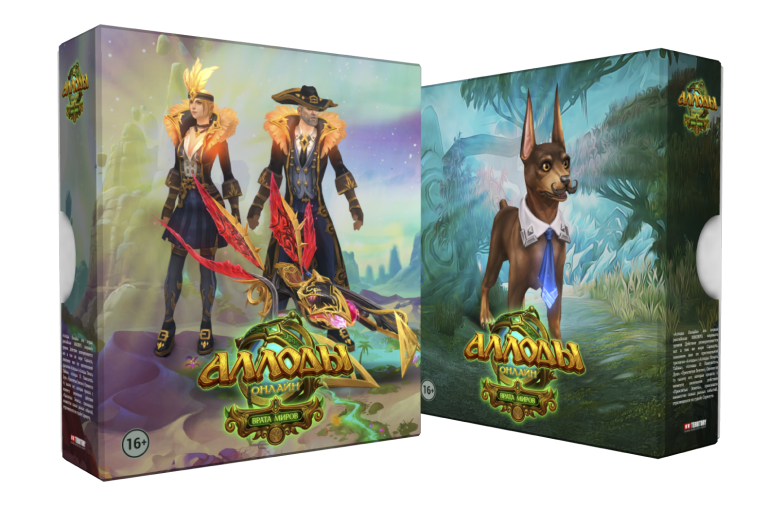
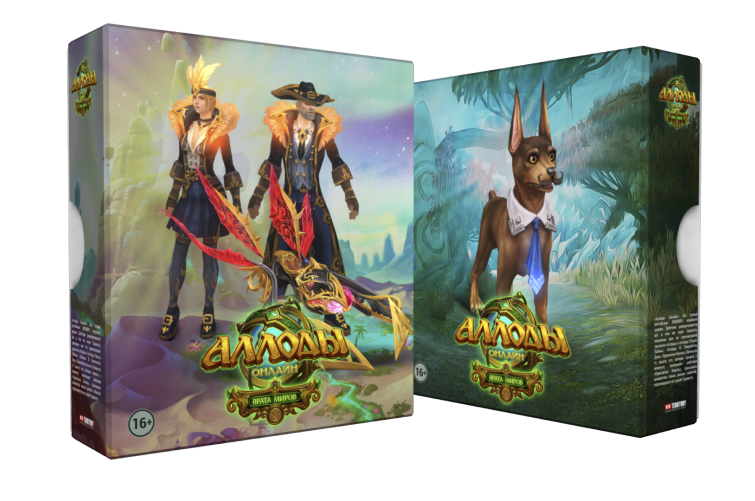
сделал section1

diff --git a/index.html b/index.html
@@ -12,18 +12,23 @@
 </head>
 
 <body>
-    <main>
+    <main class="wrapper">
         <section class="section1">
-            <div><img src="./img/section1/logo.png" alt="logo"></div>
             <div class="mafiaWomen">
-                <img src="./img/section1/MafiaCostume_2022 2.png" alt="women">
+                <img  src="./img/section1/MafiaCostume_2022 2.png" alt="women">
             </div>
-            <div class="boxes">
-                <img src="./img/section1/boxes.jpg" alt="boxes">
-            </div>
-            <div class="description">
-                <h1>КОЛЛЕКЦИОННЫЕ ИЗДАНИЯ</h1>
-                <p>Побеждайте легко, побеждайте стильно с новыми коллекционными изданиями «Аллодов Онлайн»!</p>
+            <div class="wrapperContent">
+                <div class="logo">
+                    <img src="./img/section1/logo.png" alt="logo">
+                </div>
+                <div class="boxes">
+                    <img src="./img/section1/boxes.png" alt="boxes">
+                </div>
+                <div class="description">
+                    <h1 class="descriptionHeader">КОЛЛЕКЦИОННЫЕ ИЗДАНИЯ</h1>
+                    <p class="descriptionParagraph">Побеждайте легко, побеждайте стильно с новыми коллекционными
+                        изданиями «Аллодов Онлайн»!</p>
+                </div>
             </div>
             <div class="mafiaMen">
                 <img src="./img/section1/MafiaCostume_2022 3.png" alt="men">

diff --git a/style.css b/style.css
@@ -16,3 +16,76 @@
     font-style: normal;
     line-height: normal;
 }
+
+.wrapper {
+    max-width: 2609px;
+    margin: 0 auto;
+}
+
+.section1 {
+    display: grid;
+    grid-template-columns: repeat(3, 1fr);
+    position: relative;
+    height: 892px;
+    max-height: 100%;
+
+    flex-direction: column;
+    justify-content: center;
+    align-items: center;
+
+    background: url(./img/section1/Hue_Saturation\ 5\ 1.png) no-repeat center;
+    background-size: cover;
+
+
+    .wrapperContent {
+
+        display: flex;
+        flex-direction: column;
+        align-items: center;
+
+
+        .logo {
+            max-width: 100%;
+            height: 80%;
+        }
+
+        .boxes {
+            max-width: 100%;
+        }
+    }
+
+    .mafiaMen {
+        background: url(./img/section1/Layer\ 157\ 2.png) no-repeat right;
+
+        img {
+            width: 100%;
+            max-width: 100%;
+        }
+    }
+
+    .mafiaWomen {
+        background: url(./img/section1/Layer\ 157\ 1.png) no-repeat left;
+
+        img {
+            width: 100%;
+            max-width: 100%;
+        }
+
+    }
+
+    .description {
+        display: flex;
+        flex-direction: column;
+        column-gap: 25px;
+        text-align: center;
+
+        .descriptionHeader {
+            font-size: 42px;
+        }
+
+        .descriptionParagraph {
+            font-size: 20px;
+            z-index: 999;
+        }
+    }
+}
